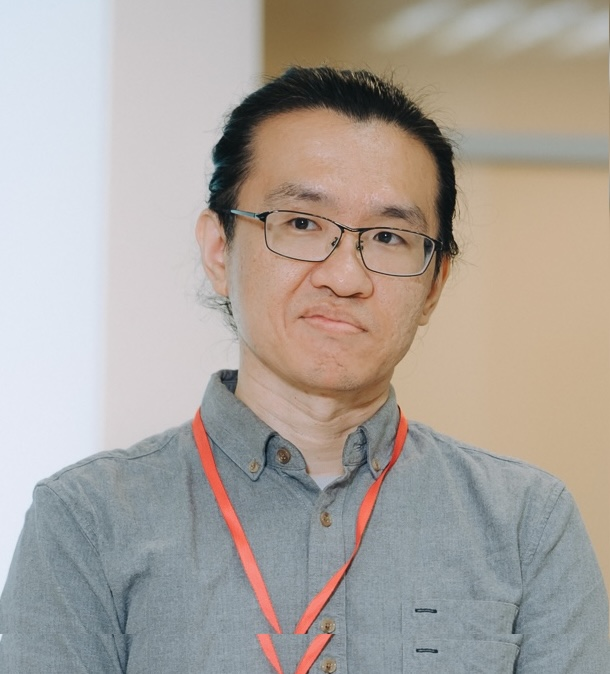
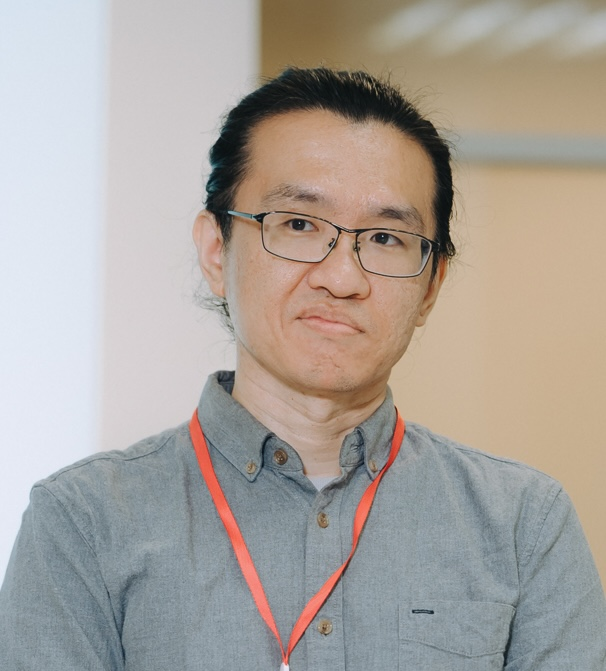
minor revision

diff --git a/profile.html b/profile.html
@@ -1,0 +1,211 @@
+<html class="theme-light">
+	
+	<head>
+	<!-- Global site tag (gtag.js) - Google Analytics -->
+<script async src="https://www.googletagmanager.com/gtag/js?id=UA-125955770-1"></script>
+
+<script>
+  window.dataLayer = window.dataLayer || [];
+  function gtag(){dataLayer.push(arguments);}
+  gtag('js', new Date());
+
+  gtag('config', 'UA-125955770-1');
+</script>
+
+		<!—[if lt IE 7]>
+		<link rel="stylesheet" type="text/css" href="ie6.css" />
+		<!-[endif]—>
+		<title>Zheng Shen</title>
+		<link rel="stylesheet" type="text/css" href="zhs11004.css">
+		<meta charset="UTF-8" />
+		<!--meta name="viewport" content="width=device-width" /-->
+		<meta name="keywords" content="Zheng Shen, Zheng, linguistics, linguist, nus, national university of singapore, goethe university frankfurt, uconn">
+		<meta name="descripition" content="Zheng Shen">
+		<meta name="author" content="Zheng Shen">
+		
+		<!--google analystics-->
+	<script type="text/javascript">
+
+  var _gaq = _gaq || [];
+  _gaq.push(['_setAccount', 'UA-39271824-1']);
+  _gaq.push(['_trackPageview']);
+
+  (function() {
+    var ga = document.createElement('script'); ga.type = 'text/javascript'; ga.async = true;
+    ga.src = ('https:' == document.location.protocol ? 'https://ssl' : 'http://www') + '.google-analytics.com/ga.js';
+    var s = document.getElementsByTagName('script')[0]; s.parentNode.insertBefore(ga, s);
+  })();
+
+	</script>
+	<!--google analystics-->
+	
+	<script type="text/javascript">
+		<!--
+		function toggle_visibility(id) {
+		var e = document.getElementById(id);
+		if(e.style.display == 'block')
+		e.style.display = 'none';
+		else
+		e.style.display = 'block';
+		}
+//-->
+</script>
+
+
+<script>
+//theme switch from https://uglyduck.ca/quick-dirty-theme-switcher/
+// Set a given theme/color-scheme
+function setTheme(themeName) {
+    localStorage.setItem('theme', themeName);
+    document.documentElement.className = themeName;
+}
+
+// Toggle between color themes
+function toggleLightTheme() {
+    if (localStorage.getItem('theme') !== 'theme-light'){
+        setTheme('theme-light');
+    }
+}
+function toggleDarkTheme() {
+    if (localStorage.getItem('theme') !== 'theme-dark'){
+        setTheme('theme-dark');
+    }
+}
+function toggleLvTheme() {
+    if (localStorage.getItem('theme') !== 'theme-lv'){
+        setTheme('theme-lv');
+    }
+}
+function toggleLanTheme() {
+    if (localStorage.getItem('theme') !== 'theme-lan'){
+        setTheme('theme-lan');
+    }
+}
+function toggleHuangTheme() {
+    if (localStorage.getItem('theme') !== 'theme-huang'){
+        setTheme('theme-huang');
+    }
+}
+
+// Immediately set the theme on initial load
+(function () {
+    if (localStorage.getItem('theme') === 'theme-light') {
+        setTheme('theme-light');
+    }
+    if (localStorage.getItem('theme') === 'theme-dark') {
+        setTheme('theme-dark');
+    }
+    if (localStorage.getItem('theme') === 'theme-lv') {
+        setTheme('theme-lv');
+    }
+    if (localStorage.getItem('theme') === 'theme-lan') {
+        setTheme('theme-lan');
+    }
+    if (localStorage.getItem('theme') === 'theme-huang') {
+        setTheme('theme-huang');
+    }
+})();
+	</script>
+
+<style>
+
+    .imageBox {
+      position: relative;
+      float: left;
+    }
+
+    .imageBox .hoverImg {
+      position: absolute;
+      left: 0;
+      top: 0;
+      display: none;
+    }
+
+    .imageBox:hover .hoverImg {
+      display: block;
+    }
+
+    .imageBox:hover .hoverImg {
+        display: block;
+    }
+
+</style>
+
+
+	</head>
+	
+	<body class="light">
+		<div class="container">
+
+		<div id="news">
+
+<style type="text/css">
+.tg  {border-collapse:collapse;border-spacing:0;}
+.tg td{border-color:black;border-style:solid;border-width:1px;font-family:HelveticaNeue-Light;font-size:16px;
+  overflow:hidden;padding:10px 5px;word-break:normal;}
+.tg th{border-color:black;border-style:solid;border-width:1px;font-family:HelveticaNeue-Light;font-size:16px;
+  font-weight:normal;overflow:hidden;padding:10px 5px;word-break:normal;}
+.tg .tg-c3ow{border-color:inherit;text-align:center;vertical-align:top}
+.tg .tg-0pky{border-color:inherit;text-align:left;vertical-align:top}
+</style>
+
+
+    <div class="imageBox">
+      <div class="imageInn">
+    <span style="display:inline-block; height: 1em;"></span>
+        <img src="profile/normal.jpg" alt="Default Image"   style="width:100%" >
+      <span style="display:inline-block; height: 1em;"></span>
+
+      </div>
+      <div class="hoverImg">
+       <span style="display:inline-block; height: 1em;"></span>
+        <img src="profile/not.jpg" alt="Profile Image"   style="width:100%">
+    	<span style="display:inline-block; height: 1em;"></span>
+      </div>
+    </div>
+
+	<div align="center" class="image-hover">
+	<!--span style="display:inline-block; height: 1em;"></span>
+	<img src="singsum2024/singsum2024photo.JPG" alt="project image" style="width:100%"-->
+	</div >
+
+
+
+
+<!--six months end-->
+
+
+<!--
+Broadly, my research interests lie in syntax and its interfaces with semantics and morphology. One of my current projects looks into various aspects of <b>multi-valuation</b> where one probe agreeing with multiple goals, thus receiving multiple values. This type of phenomena contribute to theoretical questions regarding typology of agreement, phi feature structure, and mechanisms behind closest conjunct agreement.
+		<br>
+		<br>
+
+My other projects investigate <b>fragment answers</b>, where I use different interpretations of fragment answers and full answers to argue for the movement theory of ellipsis, and <b>superlatives</b>, where I derive cross-linguistic interpretative differences of superlative expressions from syntactic differences. I am also working on the <b>acquisition</b> of superlative expressions with <a href="https://lyntieu.wordpress.com/" target="_blank">Lyn Tieu</a>.-->
+		
+
+		
+<!-- the dark/light theme toggle -->
+		
+		<!--span style="display:inline-block; width: 3em;"></span>
+		
+		
+		<label class="switch">
+  <input type="checkbox", id="toggle">
+  <span class="slider round"></span>
+</label>
+
+<script>
+document.querySelector("toggle").addEventListener("click", () => {
+  window.__setPreferredTheme(
+    document.body.className === "light" ? "dark" : "dark"
+  )
+})
+</script-->
+
+		</div>
+		</div>
+		</div>
+
+	</body>
+	
+	</html>
